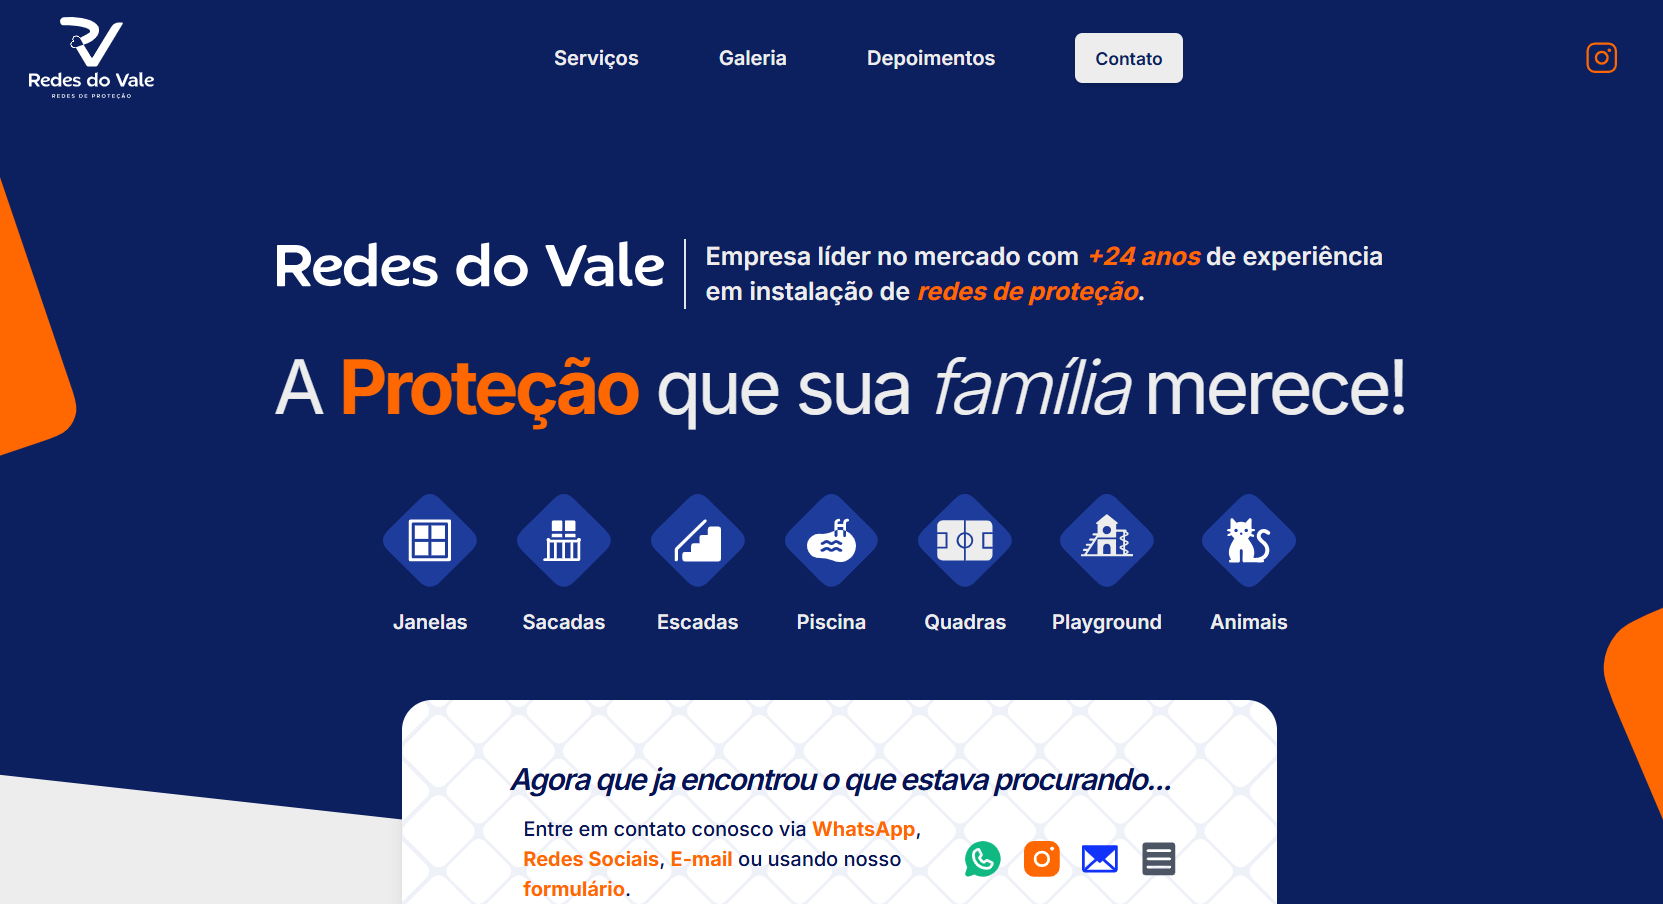
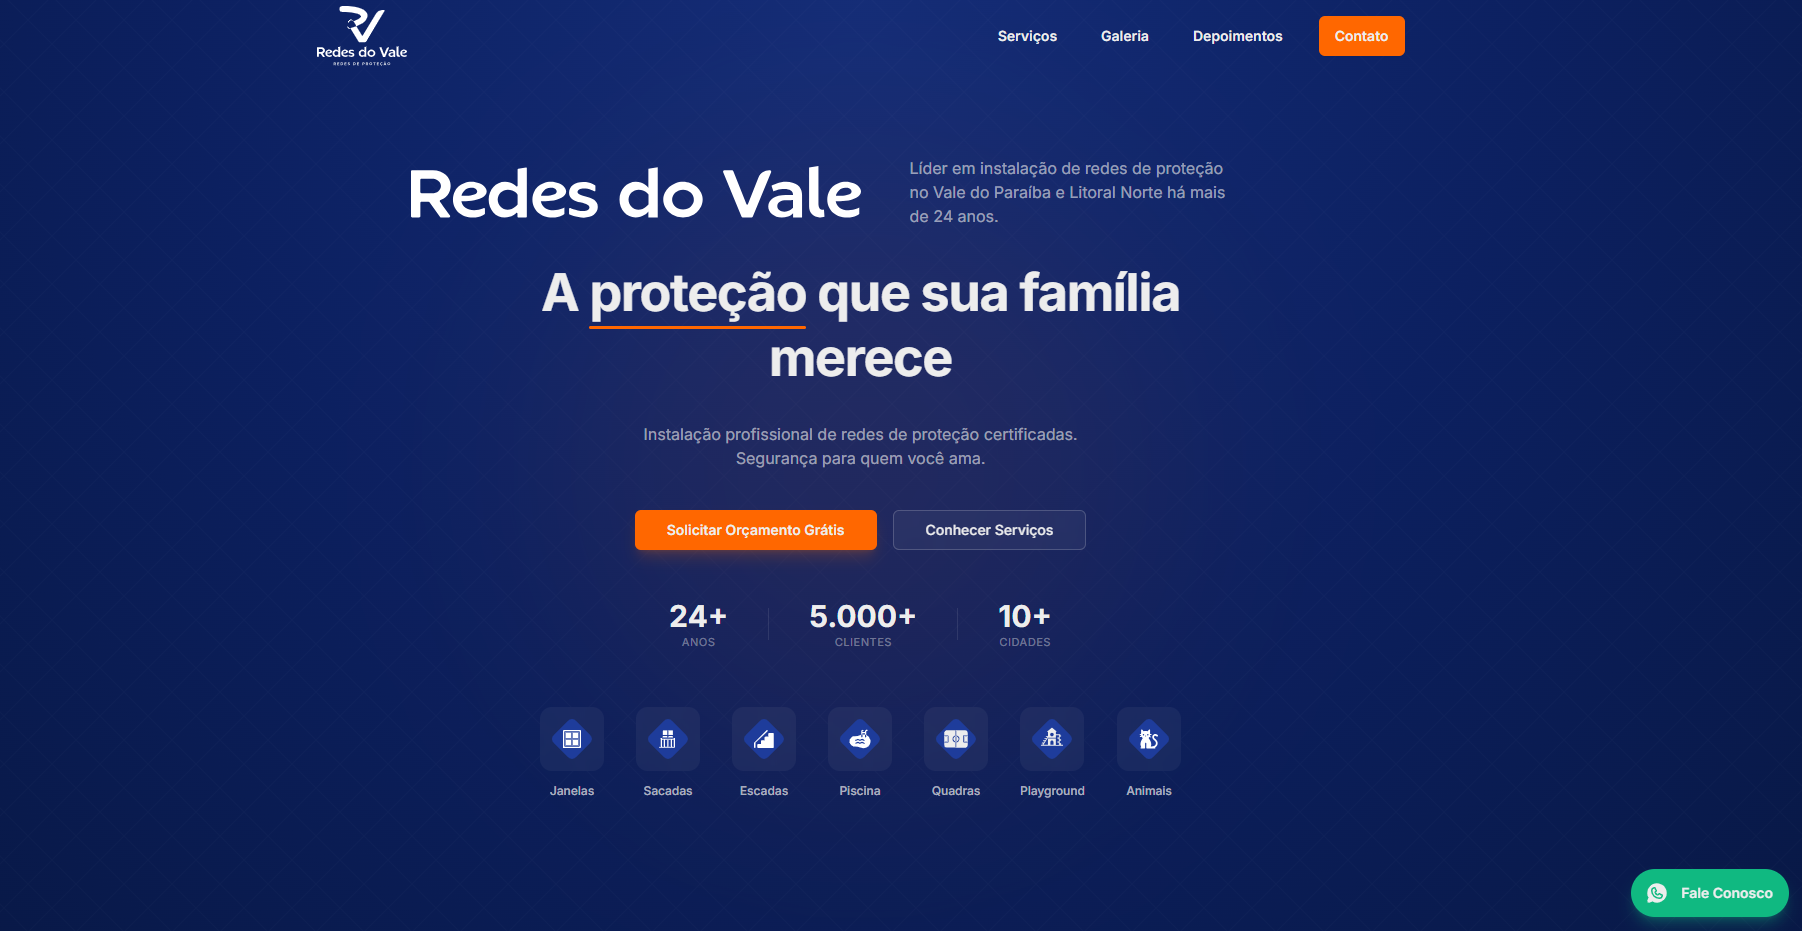
fix: adicionando projetos

diff --git a/src/utils/translations.ts b/src/utils/translations.ts
@@ -28,10 +28,10 @@ export const translations = {
                 projects: 'Projetos Entregues',
                 technologies: 'Tecnologias'
             },
-            p1: 'Desenvolvedor Full-Stack com 3+ anos criando soluções completas e modernas.',
-            p2: 'Especialista em React, TypeScript e Tailwind CSS no front-end, e Java com Quarkus no back-end. Transformo designs em código limpo e performático, com foco em UX e arquitetura escalável.',
-            p3: 'Experiência sólida com Java me permite desenvolver APIs RESTful robustas, implementar padrões de design e garantir qualidade através de testes automatizados.',
-            p4: 'Busco sempre o equilíbrio entre design, performance e boas práticas. Movido por desafios e pela evolução constante em toda a stack de desenvolvimento.'
+            p1: 'Dev Full-Stack com 3+ anos construindo coisas de verdade — de sites institucionais a sistemas internos com microserviços.',
+            p2: 'No dia a dia trabalho com React, Next.js e TailwindCSS no front, e Java com Spring Boot e Quarkus no back. Gosto de pegar um design no Figma e transformar em algo que funciona bonito e rápido.',
+            p3: 'Tenho uma queda por UI bem feita. Não sou o dev que entrega "funciona mas é feio" — me importo com o detalhe visual tanto quanto com o código por trás.',
+            p4: 'Acredito que na era da IA, o diferencial está no **pensamento crítico**, na **visão de produto** e na capacidade de **resolver problemas reais**. Código virou commodity — o que importa é **comunicar**, **julgar** e usar a IA como **multiplicador**, não como muleta.'
         },
         techStack: {
             label: 'Tech Stack',
@@ -40,7 +40,8 @@ export const translations = {
             categories: {
                 frontend: 'Frontend',
                 backend: 'Backend',
-                tools: 'Ferramentas'
+                tools: 'Ferramentas',
+                ai: 'Ferramentas IA'
             }
         },
         experience: {
@@ -80,6 +81,10 @@ export const translations = {
             viewProject: 'Ver projeto',
             viewGithub: 'Ver mais no GitHub',
             items: {
+                metrifica: {
+                    title: 'Metrifica',
+                    description: 'Produto próprio — sistema de gestão e orçamentos inteligentes para quem trabalha com medidas. Cadastro de empreendimentos, plantas com medições automáticas em m², geração de orçamentos e recibos em PDF, com condições de pagamento flexíveis. PWA instalável.'
+                },
                 redes: {
                     title: 'Redes do Vale',
                     description: 'Site institucional para empresa de redes de proteção, com navegação simples, visual limpo e comunicação direta dos serviços.'
@@ -88,9 +93,9 @@ export const translations = {
                     title: 'Twiniti Tech',
                     description: 'Site institucional para empresa de tecnologia especializada em softwares sob medida, com foco em inovação e apresentação clara dos serviços.'
                 },
-                vitta: {
-                    title: 'Vitta Soluções Ergonômicas',
-                    description: 'Site institucional para empresa de ergonomia, com design limpo, navegação intuitiva e foco na captação de clientes.'
+                delpupo: {
+                    title: 'Delpupo Homes',
+                    description: 'Site institucional para construtora de luxo, com design premium, apresentação de empreendimentos e foco na experiência visual sofisticada.'
                 },
                 coffee: {
                     title: 'Coffee Delivery',
@@ -160,10 +165,10 @@ export const translations = {
                 projects: 'Projects Delivered',
                 technologies: 'Technologies'
             },
-            p1: 'Full-Stack Developer with 3+ years creating complete and modern solutions.',
-            p2: 'Specialist in React, TypeScript, and Tailwind CSS on the front-end, and Java with Quarkus on the back-end. I transform designs into clean and performant code, focusing on UX and scalable architecture.',
-            p3: 'Solid experience with Java allowing me to develop robust RESTful APIs, implement design patterns, and ensure quality through automated testing.',
-            p4: 'I always seek the balance between design, performance, and best practices. Driven by challenges and constant evolution across the entire development stack.'
+            p1: 'Full-Stack Dev with 3+ years building real things — from institutional websites to internal systems with microservices.',
+            p2: 'Day to day I work with React, Next.js and TailwindCSS on the front, and Java with Spring Boot and Quarkus on the back. I enjoy taking a Figma design and turning it into something that looks good and runs fast.',
+            p3: "I have a thing for well-crafted UI. I'm not the dev who delivers \"it works but it's ugly\" — I care about visual detail as much as the code behind it.",
+            p4: 'I believe that in the AI era, what sets a developer apart is **critical thinking**, **product vision** and the ability to **solve real problems**. Code became commodity — what matters is to **communicate**, **judge** and use AI as a **multiplier**, not a crutch.'
         },
         techStack: {
             label: 'Tech Stack',
@@ -172,7 +177,8 @@ export const translations = {
             categories: {
                 frontend: 'Frontend',
                 backend: 'Backend',
-                tools: 'Tools'
+                tools: 'Tools',
+                ai: 'AI Tools'
             }
         },
         experience: {
@@ -212,6 +218,10 @@ export const translations = {
             viewProject: 'View project',
             viewGithub: 'View on GitHub',
             items: {
+                metrifica: {
+                    title: 'Metrifica',
+                    description: 'Own product — smart management and budgeting system for professionals who work with measurements. Property registration, floor plans with automatic m² calculations, PDF budget and receipt generation with flexible payment terms. Installable PWA.'
+                },
                 redes: {
                     title: 'Redes do Vale',
                     description: 'Institutional website for a safety net company, with simple navigation, clean visual and direct service communication.'
@@ -220,9 +230,9 @@ export const translations = {
                     title: 'Twiniti Tech',
                     description: 'Institutional website for a custom software company, focused on innovation and clear presentation of services.'
                 },
-                vitta: {
-                    title: 'Vitta Ergonomic Solutions',
-                    description: 'Institutional website for an ergonomics company, with clean design, intuitive navigation and focus on client acquisition.'
+                delpupo: {
+                    title: 'Delpupo Homes',
+                    description: 'Institutional website for a luxury construction company, with premium design, property showcase and focus on a sophisticated visual experience.'
                 },
                 coffee: {
                     title: 'Coffee Delivery',

diff --git a/src/components/TechStackSection.tsx b/src/components/TechStackSection.tsx
@@ -15,8 +15,10 @@ const techStack = {
   ],
   backend: [
     { name: 'Java', icon: '☕' },
+    { name: 'Spring Boot', icon: '🍃' },
     { name: 'Quarkus', icon: 'Q' },
     { name: 'C#', icon: 'C#' },
+    { name: 'Delphi', icon: 'D' },
     { name: 'Node.js', icon: 'N' },
     { name: 'SQL Server', icon: 'DB' },
     { name: 'REST APIs', icon: '{}' },
@@ -28,6 +30,12 @@ const techStack = {
     { name: 'Scrum', icon: '🔄' },
     { name: 'Docker', icon: '🐳' },
   ],
+  ai: [
+    { name: 'Claude Code', icon: '🤖' },
+    { name: 'Lovable', icon: '💜' },
+    { name: 'Antigravity', icon: '🚀' },
+    { name: 'Gemini Code', icon: '✦' },
+  ],
 };
 
 const TechStackSection = () => {
@@ -38,6 +46,7 @@ const TechStackSection = () => {
     { key: 'frontend' as const, label: t.categories.frontend, items: techStack.frontend },
     { key: 'backend' as const, label: t.categories.backend, items: techStack.backend },
     { key: 'tools' as const, label: t.categories.tools, items: techStack.tools },
+    { key: 'ai' as const, label: t.categories.ai, items: techStack.ai },
   ];
 
   return (
@@ -82,12 +91,13 @@ const TechStackSection = () => {
                   initial="hidden"
                   whileInView="visible"
                   viewport={viewportConfig}
-                  className="flex flex-wrap justify-center gap-3"
+                  className="flex flex-wrap justify-center gap-3 max-w-4xl mx-auto"
                 >
                   {category.items.map((tech) => (
                     <motion.div
                       key={tech.name}
                       variants={staggerChild}
+                      className="w-[calc(20%-0.6rem)] min-w-[140px]"
                     >
                       <motion.div
                         whileHover={{ y: -4, scale: 1.05 }}
@@ -95,7 +105,7 @@ const TechStackSection = () => {
                         className="card-outer group glow-primary-hover transition-shadow duration-300"
                       >
                         <div className="card-inner !p-0">
-                          <div className="flex items-center gap-3 px-5 py-3">
+                          <div className="flex items-center gap-3 px-5 py-3 justify-center">
                             <span className="text-lg w-7 text-center font-mono text-primary/70 group-hover:text-primary transition-colors duration-200 select-none">
                               {tech.icon}
                             </span>

diff --git a/src/components/ProjectsSection.tsx b/src/components/ProjectsSection.tsx
@@ -1,12 +1,15 @@
 import { ExternalLink, Github } from 'lucide-react';
 import { motion } from 'framer-motion';
+import metrificaImg from '@/assets/metrifica.webp';
 import redesDoValeImg from '@/assets/redes-do-vale.webp';
 import twinitiImg from '@/assets/twiniti.webp';
+import delpupoImg from '@/assets/delpupo-homes.webp';
+import coffeeImg from '@/assets/coffee.webp';
 import { useLanguage } from '@/contexts/LanguageContext';
 import { translations } from '@/utils/translations';
 import { revealVariants, staggerContainer, staggerChild, viewportConfig } from '@/lib/motion';
 
-type ProjectKey = 'redes' | 'twiniti' | 'vitta' | 'coffee';
+type ProjectKey = 'metrifica' | 'redes' | 'twiniti' | 'delpupo' | 'coffee';
 
 const ProjectsSection = () => {
   const { language } = useLanguage();
@@ -18,6 +21,12 @@ const ProjectsSection = () => {
     technologies: string[];
     live: string;
   }[] = [
+    {
+      key: 'metrifica',
+      image: metrificaImg,
+      technologies: ['React', 'TypeScript', 'Supabase', 'TailwindCSS', 'PWA', 'jsPDF'],
+      live: 'https://metrifica.vercel.app/',
+    },
     {
       key: 'redes',
       image: redesDoValeImg,
@@ -31,14 +40,14 @@ const ProjectsSection = () => {
       live: 'https://www.twiniti.com.br/',
     },
     {
-      key: 'vitta',
-      image: '',
+      key: 'delpupo',
+      image: delpupoImg,
       technologies: ['React', 'Next.js', 'TypeScript', 'TailwindCSS'],
-      live: 'https://vittasolucoesergonomicas.com.br/',
+      live: 'https://www.delpupohomes.com/',
     },
     {
       key: 'coffee',
-      image: '',
+      image: coffeeImg,
       technologies: ['React', 'TailwindCSS', 'Vite'],
       live: 'https://coffee-delivery-two-murex.vercel.app/',
     },

diff --git a/src/components/AboutSection.tsx b/src/components/AboutSection.tsx
@@ -5,6 +5,22 @@ import { translations } from '@/utils/translations';
 import { revealVariants, staggerContainer, staggerChild, viewportConfig } from '@/lib/motion';
 import perfilImg from '@/assets/perfil.webp';
 
+/** Parses **bold** markers into <span> with primary color */
+const HighlightedText = ({ text, className }: { text: string; className?: string }) => {
+  const parts = text.split(/\*\*(.*?)\*\*/g);
+  return (
+    <p className={className}>
+      {parts.map((part, i) =>
+        i % 2 === 1 ? (
+          <span key={i} className="text-primary font-semibold">{part}</span>
+        ) : (
+          <span key={i}>{part}</span>
+        )
+      )}
+    </p>
+  );
+};
+
 const AboutSection = () => {
   const { language } = useLanguage();
   const t = translations[language].about;
@@ -74,9 +90,10 @@ const AboutSection = () => {
                 <p className="text-sm md:text-base text-muted-foreground leading-relaxed">
                   {t.p3}
                 </p>
-                <p className="text-sm md:text-base text-muted-foreground leading-relaxed">
-                  {t.p4}
-                </p>
+                <HighlightedText
+                  text={t.p4}
+                  className="text-sm md:text-base text-muted-foreground leading-relaxed border-l-2 border-primary/30 pl-4"
+                />
               </div>
             </div>
           </motion.div>

diff --git a/scripts/optimize-images.js b/scripts/optimize-images.js
@@ -10,7 +10,10 @@ const assetsDir = path.resolve(__dirname, '../src/assets');
 const images = [
     'perfil.jpg',
     'redes-do-vale.png',
-    'twiniti.png'
+    'twiniti.png',
+    'metrifica.png',
+    'delpupo-homes.png',
+    'coffee.png'
 ];
 
 async function convertImages() {
